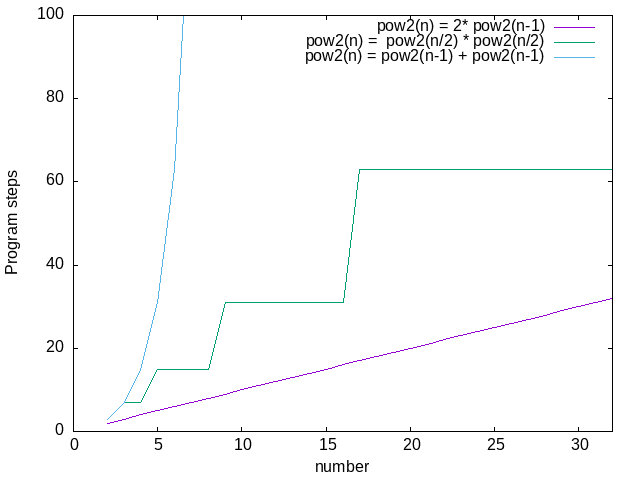
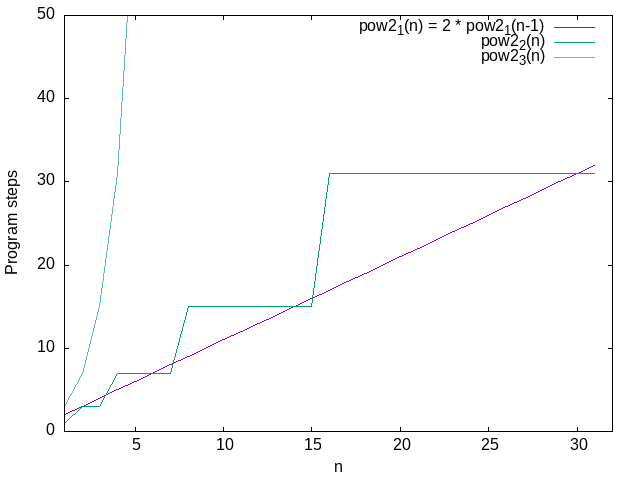
Terminar y revisar practica 5

diff --git a/prac5/pow2.cc b/prac5/pow2.cc
@@ -7,43 +7,52 @@ unsigned int STEPS1 = 0;
 unsigned int STEPS2 = 0;
 unsigned int STEPS3 = 0;
 
-unsigned long pow2_1(unsigned number){
-	STEPS1++;
-	if(number == 0)
-		return 1;
-	return (2 * pow2_1(number-1));
+// Coste: \Theta(n)
+unsigned long pow2_1(unsigned n) {
+    STEPS1++;
+
+    if (n == 0)
+        return 1;
+    
+    return 2 * pow2_1(n - 1);
 }
 
-unsigned long pow2_2(unsigned number){
+// Coste: \Theta(log n)
+unsigned long pow2_2(unsigned n) {
 	STEPS2++;
-	if(number == 0)
-		return 1;
 
-	if(number%2 == 0)
-		return (pow2_2(number/2)) * (pow2_2(number/2));
+    if (n == 0) return 1;
 
- 	return 2 * (pow2_2(number/2)) * (pow2_2(number/2));
+    if (n == 1) return 2;
+
+    if (n % 2 == 0)
+        return pow2_2(n / 2) * pow2_2(n / 2);
+    else
+        return pow2_2((n - 1) / 2) * pow2_2((n - 1) / 2) * 2;
+    
 }
 
-unsigned long pow2_3(unsigned number){
+// Coste: \Theta (2^n)
+unsigned long pow2_3(unsigned n){
 	STEPS3++;
-	if(number == 0)
+	if(n == 0)
 		return 1;
 	
-	return pow2_3(number-1) + pow2_3(number-1);
+	return pow2_3(n-1) + pow2_3(n-1);
 }
 
 int main (){
 
-	for(unsigned exp = 1; exp< 32; exp++){
-		STEPS1 = STEPS2 = STEPS3 = 0;
-		pow2_1(exp);
-		cout << STEPS1 << "\t";
-		pow2_2(exp);
-		cout << STEPS2 << "\t";
-		pow2_3(exp);
-		cout << STEPS3 << endl;
-	}
+	for (unsigned number = 1; number < 32; number++) {
+        STEPS1 = STEPS2 = STEPS3 = 0;
+		
+        pow2_1(number);
+        cout << number << "\t" << STEPS1 << "\t";
+        pow2_2(number);
+        cout << STEPS2 << "\t";
+        pow2_3(number);
+        cout << STEPS3 << endl;
+    }
 
 	return 0;
 }
